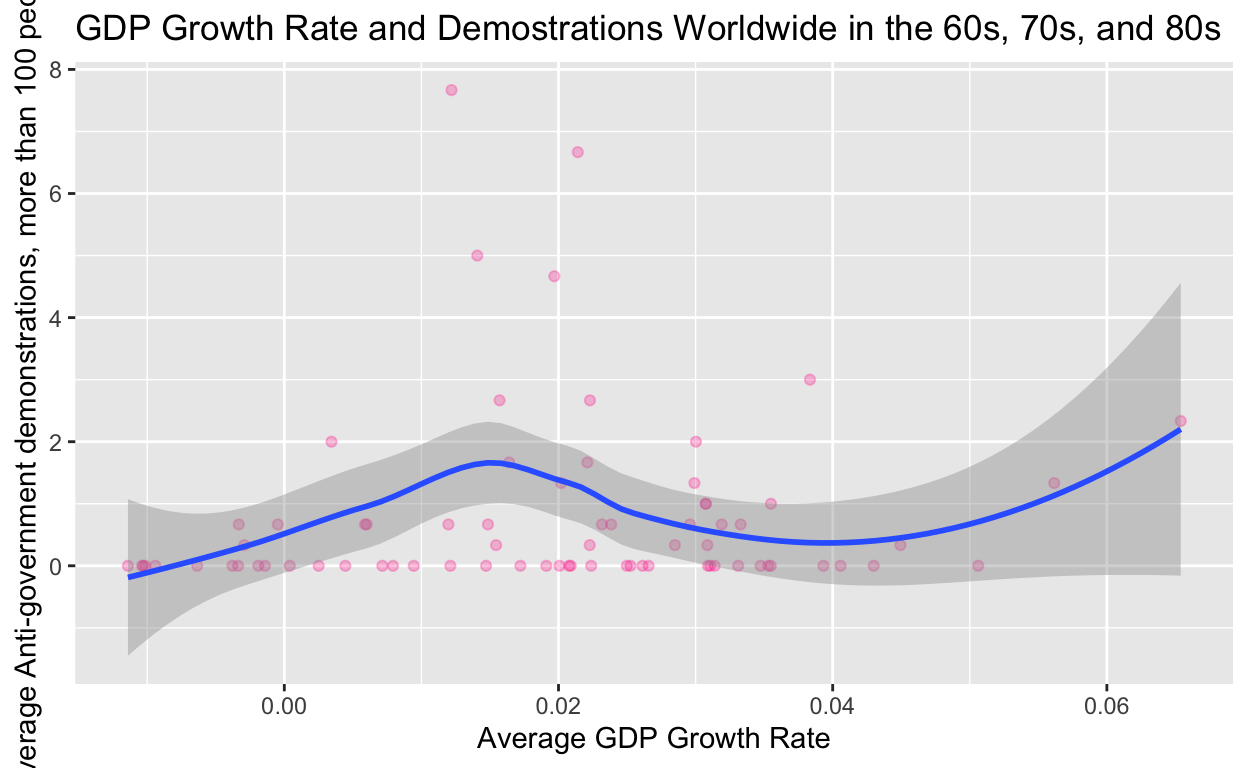
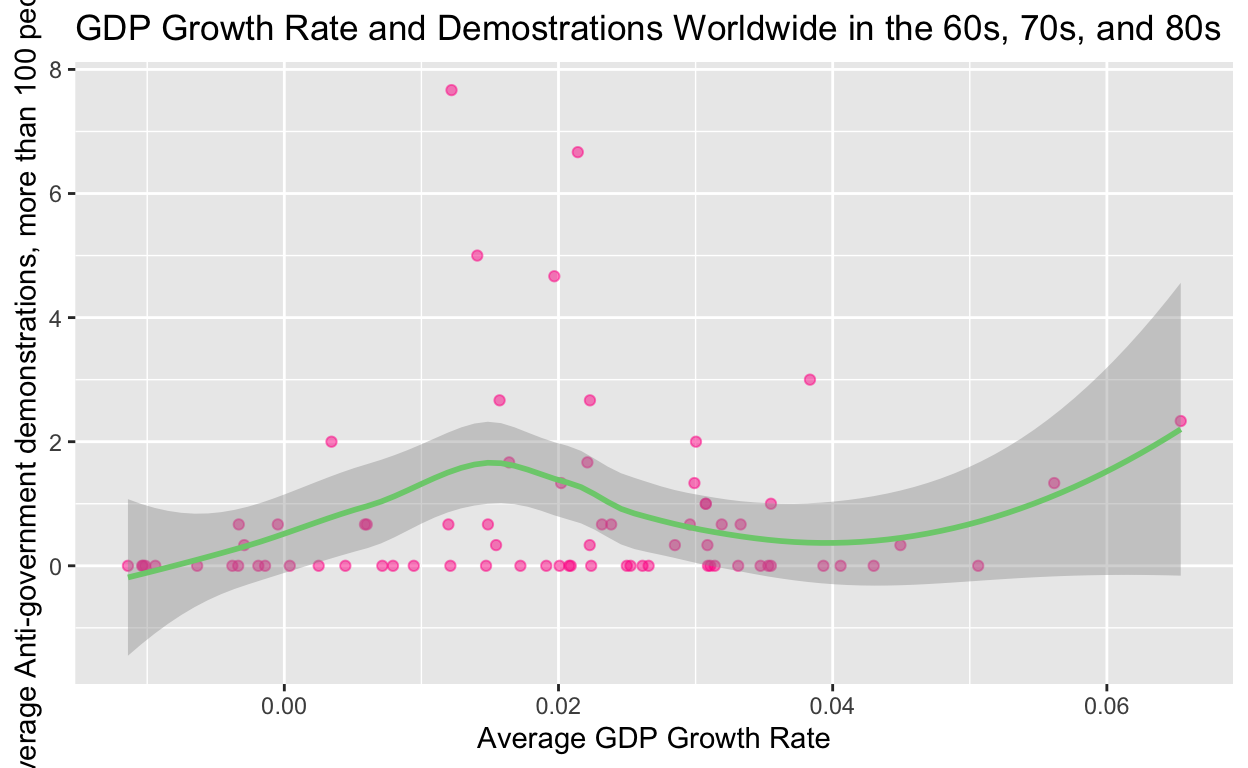
Final Project Ines de la Morena

diff --git a/index.html b/index.html
@@ -115,7 +115,7 @@ code span.wa { color: #5e5e5e; font-style: italic; } /* Warning */
   <!--/radix_placeholder_rmarkdown_metadata-->
   
   <script type="text/json" id="radix-resource-manifest">
-  {"type":"character","attributes":{},"value":["index_files/anchor-4.2.2/anchor.min.js","index_files/bowser-1.9.3/bowser.min.js","index_files/distill-2.2.21/template.v2.js","index_files/figure-html5/unnamed-chunk-2-1.png","index_files/figure-html5/unnamed-chunk-3-1.png","index_files/header-attrs-2.17/header-attrs.js","index_files/header-attrs-2.24/header-attrs.js","index_files/jquery-3.6.0/jquery-3.6.0.js","index_files/jquery-3.6.0/jquery-3.6.0.min 2.map","index_files/jquery-3.6.0/jquery-3.6.0.min.js","index_files/jquery-3.6.0/jquery-3.6.0.min.map","index_files/popper-2.6.0/popper.min.js","index_files/tippy-6.2.7/tippy 2.css","index_files/tippy-6.2.7/tippy-bundle.umd.min.js","index_files/tippy-6.2.7/tippy-light-border 2.css","index_files/tippy-6.2.7/tippy-light-border.css","index_files/tippy-6.2.7/tippy.css","index_files/tippy-6.2.7/tippy.umd.min.js","index_files/webcomponents-2.0.0/webcomponents.js","violence.csv"]}
+  {"type":"character","attributes":{},"value":["index_files/anchor-4.2.2/anchor.min.js","index_files/bowser-1.9.3/bowser.min.js","index_files/distill-2.2.21/template.v2.js","index_files/figure-html5/unnamed-chunk-1-1.png","index_files/figure-html5/unnamed-chunk-2-1.png","index_files/figure-html5/unnamed-chunk-3-1.png","index_files/header-attrs-2.17/header-attrs.js","index_files/header-attrs-2.24/header-attrs.js","index_files/jquery-3.6.0/jquery-3.6.0.js","index_files/jquery-3.6.0/jquery-3.6.0.min.js","index_files/jquery-3.6.0/jquery-3.6.0.min.map","index_files/popper-2.6.0/popper.min.js","index_files/tippy-6.2.7/tippy-bundle.umd.min.js","index_files/tippy-6.2.7/tippy-light-border.css","index_files/tippy-6.2.7/tippy.css","index_files/tippy-6.2.7/tippy.umd.min.js","index_files/webcomponents-2.0.0/webcomponents.js","violence.csv"]}
   </script>
   <!--radix_placeholder_navigation_in_header-->
   <!--/radix_placeholder_navigation_in_header-->
@@ -1517,27 +1517,45 @@ code span.wa { color: #5e5e5e; font-style: italic; } /* Warning */
 </div>
 
 <div class="d-article">
-<p>Project Introduction
-Introduction: describe the research question and main hypothesis; describe why it is important. (1-2 paragraphs) (2pts)</p>
-<p>What is the relationship between the GDP growth rate and anti-government demonstrations? I believe that if GDP growth is stagnant or negative, there would be a rise in anti-government demonstrations. In “How Democracies Die” by Ziblatt and Levitsky, they stated that the better the economic state of a nation, the less likely there is to be democratic breakdown or civil unrest. If this is true, then I am curious to see if GDP growth over time increases or decreases national unity and discontent, using anti-government demonstrations as a sort of proxy. The data set I will be using is the political violence data set provided on the course website. Thus, my explanatory variable is the real GDP growth rate. The outcome that I am interested in exploring based on variations in GDP growth is anti-government demonstrations. It is measured in the number of anti-government demonstrations in 1960, 1970 and 1980, by country. To support my hypothesis, two relationships could be true. First, a negative or stagnant growth of GDP coupled with a rise in anti-government demonstrations. Alternatively, a positive GDP growth and low number of anti-government demonstrations. A pattern of growth coupled with a rise in anti-government demonstrations or sentiment would disprove my hypothesis, as well as its inverse. My regression coefficient, when controling for initial GDP, should thus be negative. I am interested in exploring this relationship, or something similar to it, in order to understand politics and my own Spanish background better.</p>
-<p>Data
-Data used: violence.csv</p>
-<p>This data is available on the course website. It consists of 208 rows, one for each of the countries in the dataframe, and over a hundred variables. The variables used for this project are the gyp (representing Growth rate of real per capita GDP), lrgdp (Log of initial Income: Log of real per capita GDP), and agovdem (Anti-government demonstrations: Any peaceful public gathering of at least 100 persons). The GDP and GDP growth data are from the Bureau of Economic Analysis. They each have the numbers 60, 70, or 80 as a suffix (representing the years 1960, 1970, and 1980, respectively). While I originally wished to do coups, coups were few and far between in the data set, and also set a high threshold for exemplifying government unrest.</p>
-<p>My research design is technically a longitudinal study that aims to pinpoint the relationship between GDP growth and anti-government protests. It takes into account three distinct points in time: 1960, 1970, and 1980. However, in order to reduce noise, the three variables were averaged across those three points in time. Although this gives me one value for each variable, it is not a study of a single distinct point in time and thus it can’t accurately be described as a cross-sectional study. The data set-up process and the regression are shown below:</p>
+<p><strong>Introduction</strong></p>
+<p>What is the relationship between the GDP growth rate and anti-government demonstrations? I believe that if GDP growth is stagnant or negative, there would be a rise in anti-government demonstrations. In “How Democracies Die” by Ziblatt and Levitsky, they stated that the better the economic state of a nation, the less likely there is to be democratic breakdown or civil unrest. If this is true, then I am curious to see if GDP growth over time increases or decreases national unity and discontent, using anti-government demonstrations as a sort of proxy. The data set I will be using is the political violence data set provided on the course website. Thus, my explanatory or independent variable is the real GDP growth rate, and the dependent variable is anti-government protests. The outcome that I am interested in exploring based on variations in GDP growth is anti-government demonstrations. It is measured in the number of anti-government demonstrations in 1960, 1970 and 1980, by country. To support my hypothesis, two relationships could be true. First, a negative or stagnant growth of GDP coupled with a rise in anti-government demonstrations. Alternatively, a positive GDP growth and low number of anti-government demonstrations. A pattern of growth coupled with a rise in anti-government demonstrations or sentiment would disprove my hypothesis, as well as its inverse. My regression coefficient, when controling for initial GDP, should thus be negative. I am interested in exploring this relationship, or something similar to it, in order to understand politics and my own Spanish background better.</p>
+<p><strong>Data</strong></p>
+<p>Data used: violence.csv</p>
+<p>This data is available on the course website. It consists of 208 rows, one for each of the countries in the dataframe, and over a hundred variables. The variables used for this project are the gyp (representing Growth rate of real per capita GDP), lrgdp (Log of initial Income: Log of real per capita GDP), and agovdem (Anti-government demonstrations: Any peaceful public gathering of at least 100 persons). The GDP per capita and GDP growth data are from the Bureau of Economic Analysis. They each have the numbers 60, 70, or 80 as a suffix (representing the years 1960, 1970, and 1980, respectively). While I originally wished to do coups, coups were few and far between in the data set, and also set a high threshold for exemplifying government unrest.</p>
+<p>My research design is technically a longitudinal study that aims to pinpoint the relationship between GDP growth and anti-government protests. It takes into account three distinct points in time: 1960, 1970, and 1980. However, in order to reduce noise, and because the decades weren’t of particular interest to my study, the three variables were averaged across those three points in time. Although this gives me one value for each variable, it is not a study of a single distinct point in time and thus it can’t accurately be described as a cross-sectional study. The data set-up process and the visualization of the outcome variable are shown below:</p>
 <div class="layout-chunk" data-layout="l-body">
 <div class="sourceCode">
 <pre class="sourceCode r"><code class="sourceCode r"><span><span class='kw'><a href='https://rdrr.io/r/base/library.html'>library</a></span><span class='op'>(</span><span class='va'><a href='https://dplyr.tidyverse.org'>dplyr</a></span><span class='op'>)</span></span>
 <span><span class='kw'><a href='https://rdrr.io/r/base/library.html'>library</a></span><span class='op'>(</span><span class='va'><a href='https://tidyverse.tidyverse.org'>tidyverse</a></span><span class='op'>)</span></span>
 <span><span class='va'>violence</span> <span class='op'>&lt;-</span> <span class='fu'><a href='https://readr.tidyverse.org/reference/read_delim.html'>read_csv</a></span><span class='op'>(</span><span class='st'>'violence.csv'</span><span class='op'>)</span></span>
 <span></span>
-<span><span class='va'>violence</span> <span class='op'>&lt;-</span> <span class='fu'><a href='https://rdrr.io/r/base/subset.html'>subset</a></span><span class='op'>(</span><span class='va'>violence</span>, select <span class='op'>=</span> <span class='fu'><a href='https://rdrr.io/r/base/c.html'>c</a></span><span class='op'>(</span><span class='va'>sftgname</span>, <span class='va'>agovdem60</span>, <span class='va'>gyp60</span>, <span class='va'>lrgdp60</span>, <span class='va'>agovdem70</span>, <span class='va'>gyp70</span>, <span class='va'>lrgdp70</span>, <span class='va'>agovdem80</span>, <span class='va'>gyp80</span>, <span class='va'>lrgdp80</span><span class='op'>)</span><span class='op'>)</span></span>
+<span><span class='va'>violence</span> <span class='op'>&lt;-</span> <span class='fu'><a href='https://rdrr.io/r/base/subset.html'>subset</a></span><span class='op'>(</span><span class='va'>violence</span>, select <span class='op'>=</span> <span class='fu'><a href='https://rdrr.io/r/base/c.html'>c</a></span><span class='op'>(</span><span class='va'>sftgname</span>, <span class='va'>agovdem60</span>, <span class='va'>gyp60</span>, <span class='va'>lrgdp60</span>, </span>
+<span>                                        <span class='va'>agovdem70</span>, <span class='va'>gyp70</span>, <span class='va'>lrgdp70</span>, <span class='va'>agovdem80</span>, </span>
+<span>                                        <span class='va'>gyp80</span>, <span class='va'>lrgdp80</span><span class='op'>)</span><span class='op'>)</span></span>
 <span></span>
 <span><span class='va'>violence</span> <span class='op'>&lt;-</span> <span class='va'>violence</span> <span class='op'>|&gt;</span></span>
 <span> <span class='fu'><a href='https://dplyr.tidyverse.org/reference/mutate.html'>mutate</a></span><span class='op'>(</span>mean_protest <span class='op'>=</span> <span class='op'>(</span><span class='va'>agovdem60</span> <span class='op'>+</span> <span class='va'>agovdem70</span> <span class='op'>+</span> <span class='va'>agovdem80</span><span class='op'>)</span><span class='op'>/</span><span class='fl'>3</span>,</span>
 <span>        mean_growth <span class='op'>=</span> <span class='op'>(</span><span class='va'>gyp60</span> <span class='op'>+</span> <span class='va'>gyp70</span> <span class='op'>+</span> <span class='va'>gyp80</span><span class='op'>)</span><span class='op'>/</span><span class='fl'>3</span>,</span>
-<span>        mean_gdp <span class='op'>=</span> <span class='op'>(</span><span class='va'>lrgdp60</span> <span class='op'>+</span> <span class='va'>lrgdp70</span> <span class='op'>+</span> <span class='va'>lrgdp80</span><span class='op'>)</span><span class='op'>/</span><span class='fl'>3</span><span class='op'>)</span></span>
+<span>        mean_gdp <span class='op'>=</span> <span class='op'>(</span><span class='va'>lrgdp60</span> <span class='op'>+</span> <span class='va'>lrgdp70</span> <span class='op'>+</span> <span class='va'>lrgdp80</span><span class='op'>)</span><span class='op'>/</span><span class='fl'>3</span>, </span>
+<span>        sum_protest <span class='op'>=</span> <span class='op'>(</span><span class='va'>agovdem60</span> <span class='op'>+</span> <span class='va'>agovdem70</span> <span class='op'>+</span> <span class='va'>agovdem80</span><span class='op'>)</span><span class='op'>)</span></span>
 <span></span>
-<span><span class='va'>regression_multiyear</span> <span class='op'>=</span> <span class='fu'><a href='https://rdrr.io/r/stats/lm.html'>lm</a></span><span class='op'>(</span><span class='va'>mean_protest</span> <span class='op'>~</span>  <span class='va'>mean_growth</span> <span class='op'>+</span> <span class='va'>mean_gdp</span>,</span>
+<span><span class='va'>hist</span> <span class='op'>&lt;-</span> <span class='va'>violence</span> <span class='op'>|&gt;</span></span>
+<span>  <span class='fu'><a href='https://ggplot2.tidyverse.org/reference/ggplot.html'>ggplot</a></span><span class='op'>(</span><span class='fu'><a href='https://ggplot2.tidyverse.org/reference/aes.html'>aes</a></span><span class='op'>(</span>x <span class='op'>=</span> <span class='va'>sum_protest</span><span class='op'>)</span><span class='op'>)</span> <span class='op'>+</span></span>
+<span>  <span class='fu'><a href='https://ggplot2.tidyverse.org/reference/geom_histogram.html'>geom_histogram</a></span><span class='op'>(</span>fill <span class='op'>=</span> <span class='st'>"lightpink"</span><span class='op'>)</span> <span class='op'>+</span></span>
+<span>  <span class='fu'><a href='https://ggplot2.tidyverse.org/reference/labs.html'>labs</a></span><span class='op'>(</span></span>
+<span>    x <span class='op'>=</span> <span class='st'>"Sum of Anti-Government Protests Over Three Decades"</span>,</span>
+<span>    y <span class='op'>=</span> <span class='st'>"Density"</span>,</span>
+<span>    title <span class='op'>=</span> <span class='st'>"Anti-Government Protests Worldwide in the 60s, 70s, and 80s"</span></span>
+<span>  <span class='op'>)</span> </span>
+<span><span class='va'>hist</span></span></code></pre>
+</div>
+<p><img src="index_files/figure-html5/unnamed-chunk-1-1.png" width="624" /></p>
+</div>
+<p>Thus, my outcome of interest was mostly concentrated around zero. This means that most nations, over three decades, had no anti-government protests (a positive normative statistic). For the visualization of my outcome of interest, the regression of GDP growth and anti-government protests, I expected a downward trending line. This would signify that as the GDP growth rate increased, there would be less anti-government demonstrations, signifying content for the ruling party. Although my data had few values with negative GDP growth, I expected said values to have high positive correlations with anti-government demonstrations. If the country was not only not economically growing a lot but actually worsening, I would think that more people would demand some change in the government through anti-government demonstrations. In order to see if my hypothesis was true, I ran the regression.</p>
+<p><strong>Results</strong></p>
+<div class="layout-chunk" data-layout="l-body">
+<div class="sourceCode">
+<pre class="sourceCode r"><code class="sourceCode r"><span><span class='va'>regression_multiyear</span> <span class='op'>=</span> <span class='fu'><a href='https://rdrr.io/r/stats/lm.html'>lm</a></span><span class='op'>(</span><span class='va'>mean_protest</span> <span class='op'>~</span>  <span class='va'>mean_growth</span> <span class='op'>+</span> <span class='va'>mean_gdp</span>,</span>
 <span>               data <span class='op'>=</span> <span class='va'>violence</span><span class='op'>)</span></span>
 <span><span class='va'>regression_multiyear</span></span></code></pre>
 </div>
@@ -1548,14 +1566,11 @@ lm(formula = mean_protest ~ mean_growth + mean_gdp, data = violence)
 Coefficients:
 (Intercept)  mean_growth     mean_gdp  
     -1.7772       0.1182       0.3306  </code></pre>
-</div>
-<p>When looking at the data, it was clear to me that it was non-linear, and its shape resembled more a quadratic function. I thus used the loess method to visualize the regression I ran in the previous section in order to best fit the data. For the visualization of my outcome of interest, I expected a downward trending line. This would signify that as the GDP growth rate increased, there would be less anti-government demonstrations, signifying content for the ruling party. Although my data had few values with negative GDP growth, I expected said values to have high positive correlations with anti-government demonstrations. If the country was not only not improving a lot but worsening, I would think that more people would demand some change in the government through anti-government demonstrations. In order to see if my hypothesis was true, I visualized the data as follows:</p>
-<div class="layout-chunk" data-layout="l-body">
 <div class="sourceCode">
 <pre class="sourceCode r"><code class="sourceCode r"><span><span class='va'>scatter</span> <span class='op'>&lt;-</span> <span class='va'>regression_multiyear</span> <span class='op'>|&gt;</span></span>
 <span>  <span class='fu'><a href='https://ggplot2.tidyverse.org/reference/ggplot.html'>ggplot</a></span><span class='op'>(</span><span class='fu'><a href='https://ggplot2.tidyverse.org/reference/aes.html'>aes</a></span><span class='op'>(</span>x <span class='op'>=</span> <span class='va'>mean_growth</span>, y <span class='op'>=</span> <span class='va'>mean_protest</span><span class='op'>)</span><span class='op'>)</span> <span class='op'>+</span></span>
-<span>  <span class='fu'><a href='https://ggplot2.tidyverse.org/reference/geom_point.html'>geom_point</a></span><span class='op'>(</span>color <span class='op'>=</span> <span class='st'>"deeppink"</span>, alpha <span class='op'>=</span> <span class='fl'>0.25</span><span class='op'>)</span> <span class='op'>+</span></span>
-<span>  <span class='fu'><a href='https://ggplot2.tidyverse.org/reference/geom_smooth.html'>geom_smooth</a></span><span class='op'>(</span>method<span class='op'>=</span> <span class='st'>'loess'</span><span class='op'>)</span> <span class='op'>+</span></span>
+<span>  <span class='fu'><a href='https://ggplot2.tidyverse.org/reference/geom_point.html'>geom_point</a></span><span class='op'>(</span>color <span class='op'>=</span> <span class='st'>"deeppink"</span>, alpha <span class='op'>=</span> <span class='fl'>0.5</span><span class='op'>)</span> <span class='op'>+</span></span>
+<span>  <span class='fu'><a href='https://ggplot2.tidyverse.org/reference/geom_smooth.html'>geom_smooth</a></span><span class='op'>(</span>method<span class='op'>=</span> <span class='st'>'loess'</span>, color <span class='op'>=</span> <span class='st'>"palegreen3"</span><span class='op'>)</span> <span class='op'>+</span></span>
 <span>  <span class='fu'><a href='https://ggplot2.tidyverse.org/reference/labs.html'>labs</a></span><span class='op'>(</span></span>
 <span>    x <span class='op'>=</span> <span class='st'>"Average GDP Growth Rate"</span>,</span>
 <span>    y <span class='op'>=</span> <span class='st'>"Average Anti-government demonstrations, more than 100 people"</span>,</span>
@@ -1565,9 +1580,8 @@ Coefficients:
 </div>
 <p><img src="index_files/figure-html5/unnamed-chunk-2-1.png" width="624" /></p>
 </div>
-<p>Results
-Results section: plot of main analysis + regression output + 2-3 paragraphs of description and interpretation of the plots and regression (including interpreting the main coefficient of interest and describing if it is statistically significant and if we should interpret it causally). This section could be longer if you choose to include additional analyses. (8pts). For the results section, you should interpret (in plain English) the main coefficient of interest in your regression. You should also comment on the statistical significance of the estimated coefficient and whether or not you believe the coefficient to represent a causal effect.</p>
-<p>My data visualization surprised me. The results of my regression show an upward-sloping trend, with a peak at around 0.020 GDP growth rate. I looked back into the data and identified a few outliers, such as Uruguay and the United States in 1960. That year, there were around 20 anti-government protests in each country, in Uruguay due to growing stagflation and looming threat of dictatorship, and in the United States due to the Vietnam War. Regardless of these outliers and some others, the correlation peaks at around a 0.015 growth rate, or 1.5%. At this level, there is a likelihood of about 2 anti-government protests in a given year. As the GDP growth rate grows to 2% per year or more, there is a lower correlation with anti-government protests. At growth rates of 4% or more, there is not enough data to definitively state, as the graph would suggest, that anti-government protests would increase. The upward slope is mostly based on outliers such as Cyprus. In order to better understand this relationship, the regression coefficients and p-values were calculated as follows:</p>
+<p>When looking at the relationship, it was clear to me that it was non-linear, and its shape resembled more a quadratic function. I thus used the loess method to visualize the regression in order to best fit the data. The results did not change much when I altered the regression method to a linear correlation.</p>
+<p>My data visualization surprised me. The results of my regression show an upward-sloping trend, with a peak at around 0.020 GDP growth rate. I looked back into the data and identified a few outliers, such as Uruguay and the United States in 1960. That year, there were around 20 anti-government protests in each country, in Uruguay due to growing stagflation and looming threat of dictatorship, and in the United States due to the Vietnam War. Regardless of these outliers and some others, the correlation peaks at around a 1.7% growth rate. At this level, there is a likelihood of about 2 anti-government protests in a given year. As the GDP growth rate grows to 2% per year or more, there is a lower correlation with anti-government protests, and a lesser likelihood of unrest. At growth rates of 4% or more, there is not enough data to definitively state, as the graph would suggest, that anti-government protests would increase. The upward slope is mostly based on outliers such as Cyprus. In order to better understand this relationship, the regression coefficients and p-values were calculated as follows:</p>
 <div class="layout-chunk" data-layout="l-body">
 <div class="sourceCode">
 <pre class="sourceCode r"><code class="sourceCode r"><span><span class='fu'><a href='https://rdrr.io/r/base/summary.html'>summary</a></span><span class='op'>(</span><span class='va'>regression_multiyear</span><span class='op'>)</span></span></code></pre>
@@ -1624,10 +1638,10 @@ F-statistic: 1.599 on 2 and 71 DF,  p-value: 0.2092</code></pre>
 </tbody>
 </table>
 </div>
-<p>Could the variable I controled for be a better predictor??</p>
-<p>It seems like most data points are concentrated alomg the 0-0.05 GDP growth rate. For those on the higher extremes of GDP growth, there are few data points but they all seem to be closer to zero in the sep_gdp histogram, with a few exceptions/outliers. The second graph also as I said has a lot values at zero, and all are between 0-3. Those with repeated illegal or forced changes in government seem to be more concentrated in the low end of GDP growth, which could confirm my hypothesis that lowe levels of economic growth lead to more dissatisfaction with the ruling party. But, I would have to do more analyses to determine the significance. I think also for the second graph it would be good to perhaps represent it in another way such as a histogram or box plot.</p>
-<p>Conclusion
-Conclusion section: 1 paragraph (i) summarizing results and assessing the extent to which you find support for your hypothesis; (ii) describing limitations of the analysis and threats to inference (missing data, confounding, etc), and stating how you could improve your analysis if you had more time/money. (2pts)</p>
+<p>The regression coefficient for my explanatory variable, GDP growth, is 0.12 at a 95% confidence level, or an alpha of 0.05. This means that for each one unit increase in mean GDP growth, we could expect anti-government protesting to increase by 0.12. The regression coefficient for my control variable, the GDP per capita level of each country, is 0.33. This suggests that, holding other variables constant, a one-unit increase in GDP per capita is associated with a 0.33 unit increase in anti-government protests. In order to determine the statistical significance, the p-values were calculated.</p>
+<p>The regression for GDP growth and anti-government protests has a p-value of 0.99, and that of GDP has a p-value of 0.12. The p-value is the probability of observing data as or more extreme if the null hypothesis is true. Thus, the probability for observing this data if there is no association between GDP growth and anti-government protests is 99%, which is extremely high. The p-value is lower for GDP per capita, my control variable, but it is still not low enough for the data to be statistically considered significant. Due to these results and the myriad of confounders in the study, we should also not interpret the relationship between the two variables as causal.</p>
+<p><strong>Conclusion</strong></p>
+<p>The study showed a positive correlation between GDP growth and anti-government protests worldwide. Although there was a positive regression coefficient of 0.12, the p-value was very high at 0.99. In practical terms, the results suggest that the relationship between GDP growth and anti-government protests may not be statistically significant. This means that the study fails to reject the null hypothesis of no effect, and thus I find little support for my overall hypothesis. This doesn’t necessarily mean there is no real-world relationship, but rather that it wasn’t convincingly detected in this study with the given data. However, the regression does reveal a possible correlation between fast-growing economies and low numbers of anti-government protests, which would be interesting to explore further and more closely to determine its significance. There were a lot of possible confounders such as wars, dictatorships, economic externalities, and any other major event that could have happened in these countries during this time period. There was a lot of missing data as well which makes the results more variable, uncertain, and possibly biased to the countries from which we were able to retrive the data at all. The variable of anti-government protests could also be inaccurate, especially in countries with dictators, media manipulation, or corruption. If I had more time and money I would control for the many confounders that could affect the results of the study and collect values for each individual year of every country. I would also collect survey responses from the citizens of various countries and see if they seem personally discontent with the government. This could paint a more accurate depiction of the approval rate of a ruling party without necessitating a protest with 100 or more people. I would maybe travel to individual countries, such as Spain, and try to collect accurate data by county, and add more response variables.</p>
 <div class="sourceCode" id="cb3"><pre class="sourceCode r distill-force-highlighting-css"><code class="sourceCode r"></code></pre></div>
 <!--radix_placeholder_article_footer-->
 <!--/radix_placeholder_article_footer-->
